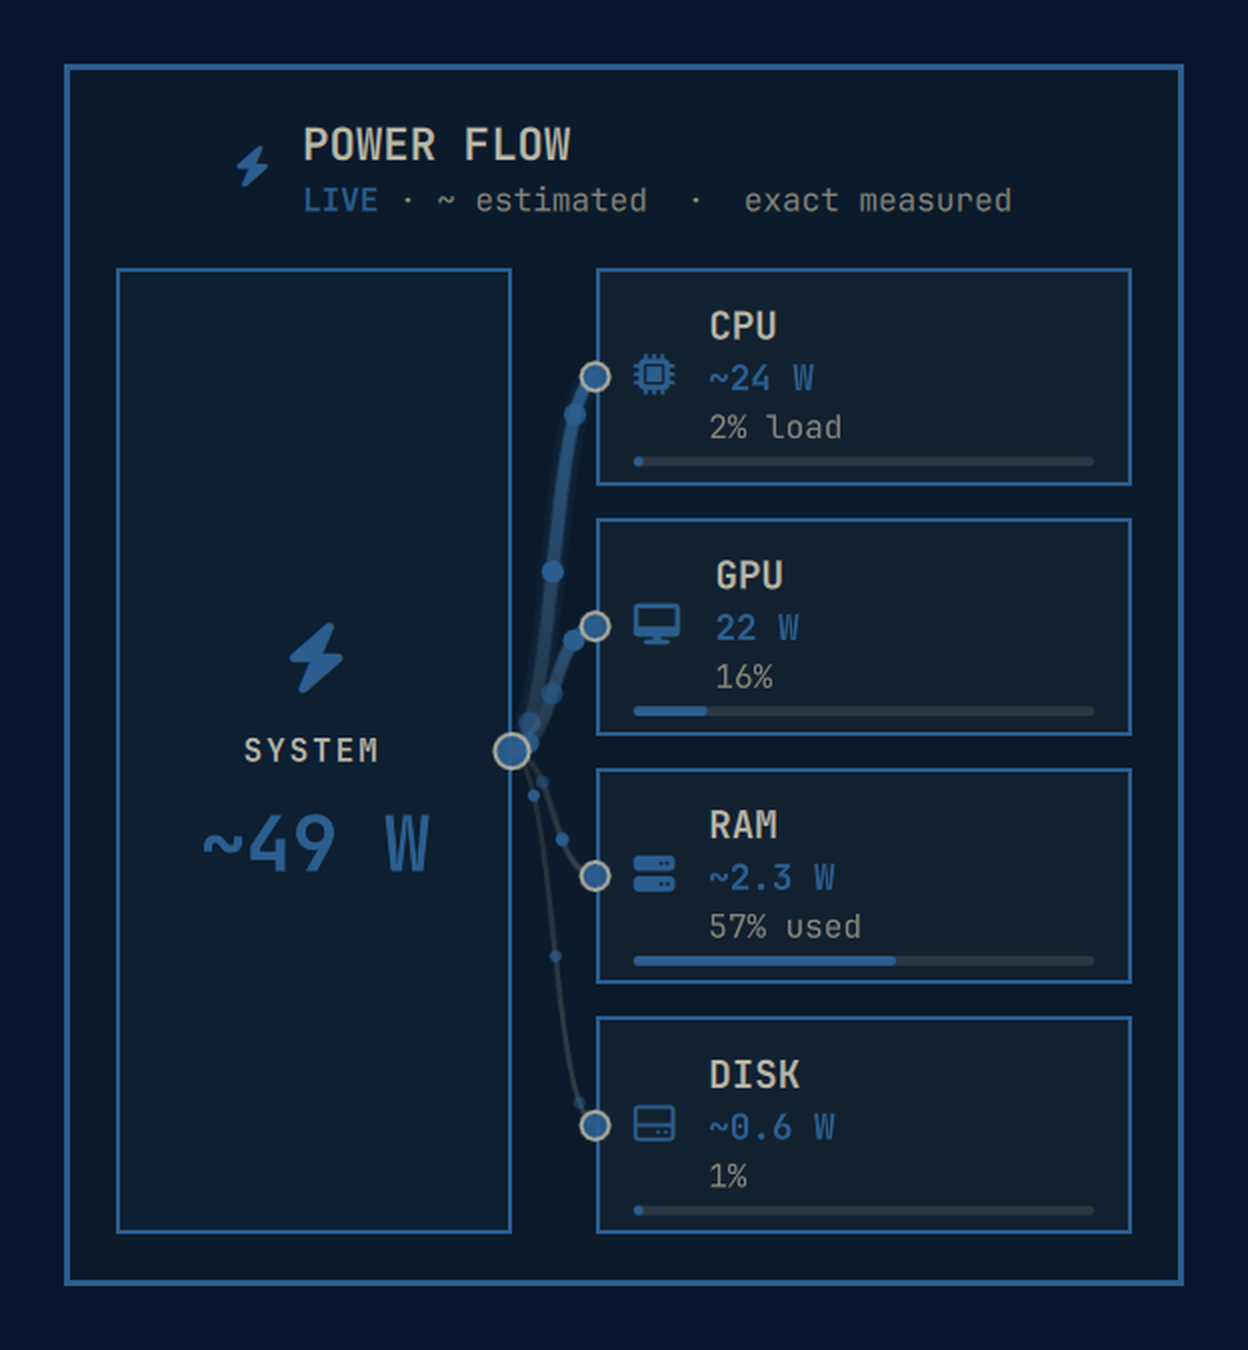
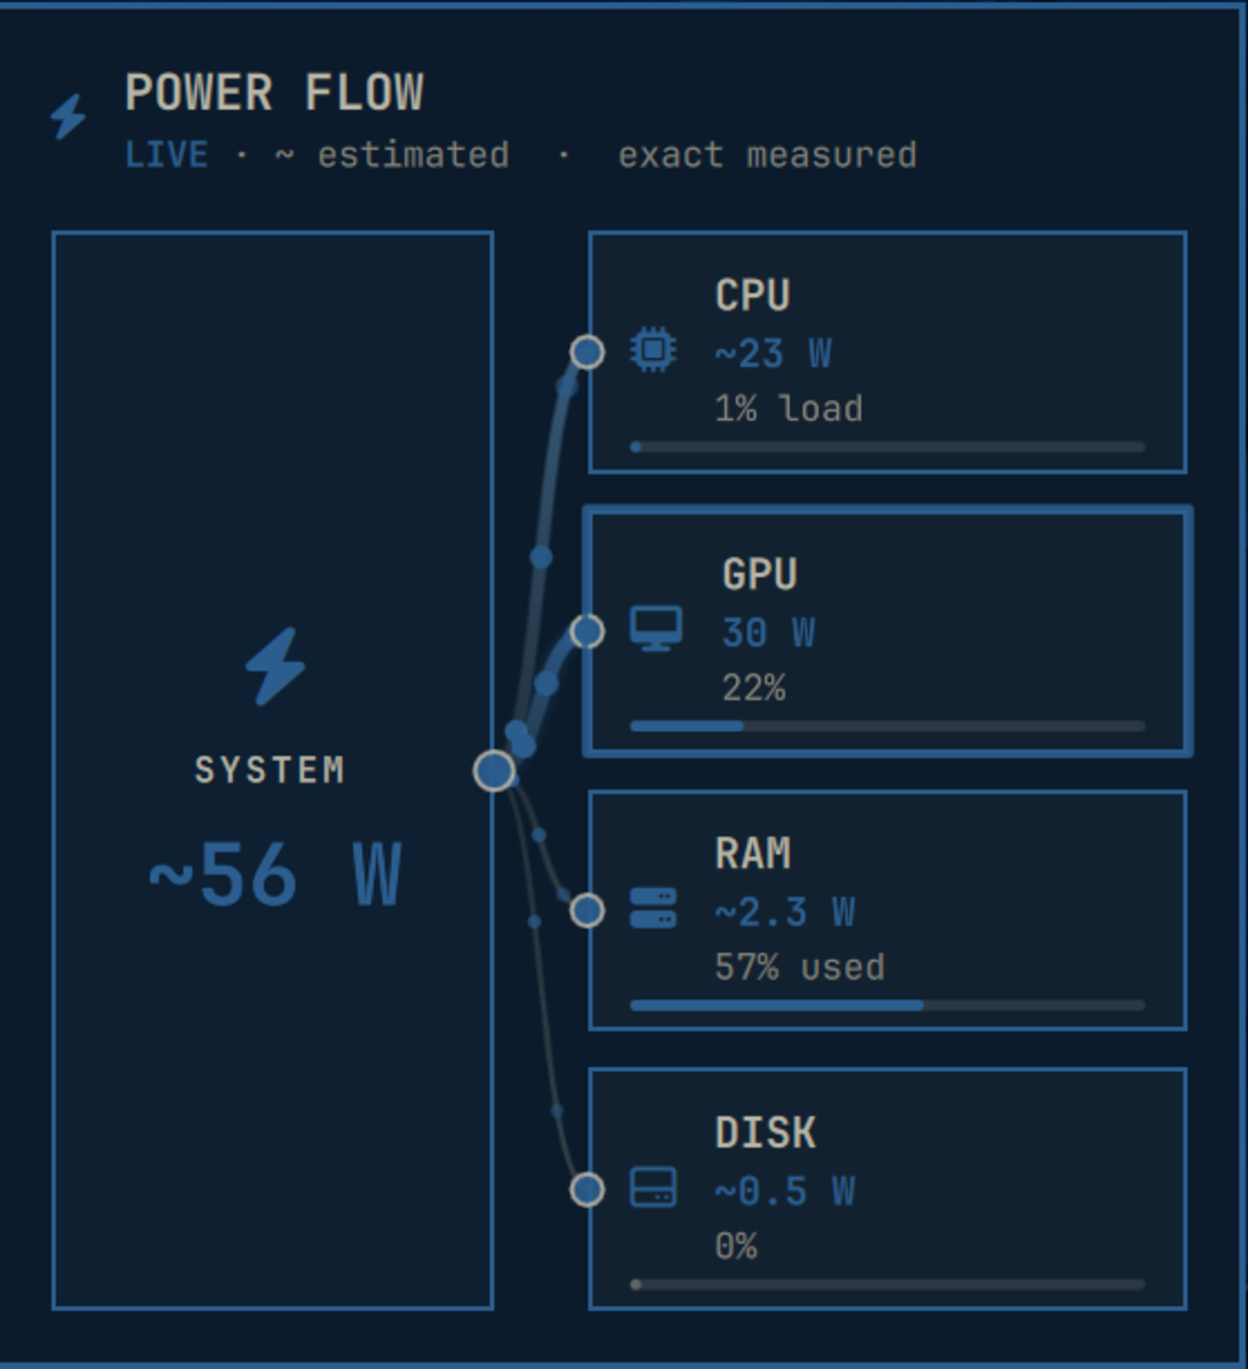
feat(ui): pulse the dominant consumer tile and align the header
The consumer tile that draws the most power now breathes: it gets an
accent halo ring just outside its own border, fading in and out over
2.2 s. The ring is drawn over the panel background rather than on top of
the tile border, which resolves to the same accent color and would
otherwise mask the fade. Only one tile pulses at a time, and it follows
the live leader as draw shares shift. Reduced motion keeps a static
highlight instead of animating.

The header block (bolt glyph, title, status line) is now anchored to the
left edge of the SYSTEM source box instead of being centered over the
whole panel, so the title lines up with the box below it.

Changed region(s): [[0.0, 0.0, 1.0, 1.0], [0.0938, 0.4356, 0.3438, 0.6844]]

diff --git a/qml/PowerFlowWidget.qml b/qml/PowerFlowWidget.qml
@@ -30,6 +30,40 @@ Item {
     readonly property int cardPadding: Style.space(12)
     readonly property int portSize: Style.space(10)
     readonly property int headerBodyGap: Style.space(14)
+    readonly property string dominantId: {
+        var bestId = "";
+        var bestW = -1;
+        for (var i = 0; i < root.canonicalIds.length; i++) {
+            var id = root.canonicalIds[i];
+            var c = root.componentById(id);
+            if (!c)
+                continue;
+            var w = c.draw_w !== undefined && c.draw_w !== null && isFinite(Number(c.draw_w)) ? Number(c.draw_w) : 0;
+            if (w > 0 && w > bestW) {
+                bestW = w;
+                bestId = id;
+            }
+        }
+        if (bestId !== "")
+            return bestId;
+
+        for (var i = 0; i < root.canonicalIds.length; i++) {
+            id = root.canonicalIds[i];
+            c = root.componentById(id);
+            if (!c)
+                continue;
+            var pct = 0;
+            if (id === "cpu" || id === "ram")
+                pct = typeof c.utilization_percent === "number" ? c.utilization_percent : 0;
+            else
+                pct = typeof c.activity_percent === "number" ? c.activity_percent : 0;
+            if (pct > 0 && pct > bestW) {
+                bestW = pct;
+                bestId = id;
+            }
+        }
+        return bestId;
+    }
     property var nodeMap: ({
     })
 
@@ -203,11 +237,11 @@ Item {
         id: header
 
         spacing: Style.space(4)
-        anchors.horizontalCenter: parent.horizontalCenter
+        anchors.left: body.left
+        width: body.width
 
         Row {
             spacing: Style.space(10)
-            anchors.horizontalCenter: parent.horizontalCenter
 
             Text {
                 text: "\uf0e7"
@@ -426,6 +460,7 @@ Item {
         readonly property string modelName: c && c.model && typeof c.model === "object" && c.model.id !== undefined ? String(c.model.id) : ""
         readonly property var topProcess: c && c.top_process ? c.top_process : null
         readonly property bool hasWatts: drawW !== null && drawW !== undefined && isFinite(Number(drawW))
+        readonly property bool isDominant: root.dominantId === tile.nodeId && root.dataLoaded && !root.stale
         readonly property real displayFraction: {
             if (nodeId === "cpu" || nodeId === "ram")
                 return Math.max(0, Math.min(1, utilizationPercent / 100));
@@ -607,6 +642,49 @@ Item {
             opacity: tile.available ? 0.9 : 0.25
             border.color: root.foreground
             border.width: tile.available ? Math.max(1, Style.spaceReal(1)) : 0
+        }
+
+        // Dominant-tile pulse border.
+        Rectangle {
+            id: pulseBorder
+
+            anchors.fill: parent
+            anchors.margins: -Style.spaceReal(1.5)
+            radius: Style.cornerRadius + Style.spaceReal(1.5)
+            color: "transparent"
+            visible: tile.isDominant
+
+            property real pulseProgress: 0
+            readonly property real pulseAlpha: root.reduceMotion ? 0.85 : 0.4 + 0.6 * pulseProgress
+            readonly property real pulseWidth: root.reduceMotion ? Math.max(1, Style.spaceReal(1.5)) : Math.max(1, Style.spaceReal(1) + Style.spaceReal(1) * pulseProgress)
+
+            border.color: Util.alpha(root.accent, pulseAlpha)
+            border.width: pulseWidth
+
+            SequentialAnimation {
+                loops: Animation.Infinite
+                running: tile.isDominant && !root.reduceMotion
+
+                NumberAnimation {
+                    target: pulseBorder
+                    property: "pulseProgress"
+                    from: 0
+                    to: 1
+                    duration: 1100
+                    easing.type: Easing.InOutSine
+                }
+
+                NumberAnimation {
+                    target: pulseBorder
+                    property: "pulseProgress"
+                    from: 1
+                    to: 0
+                    duration: 1100
+                    easing.type: Easing.InOutSine
+                }
+
+            }
+
         }
 
         // Provenance tooltip.
